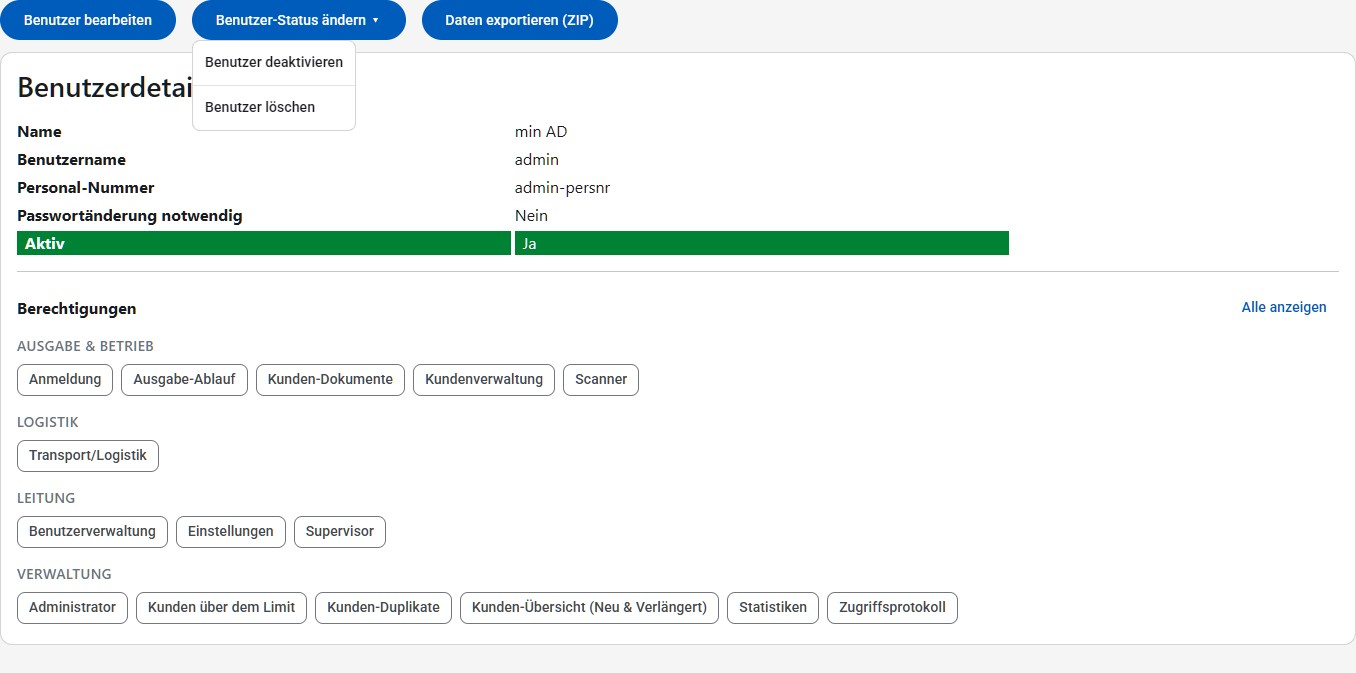
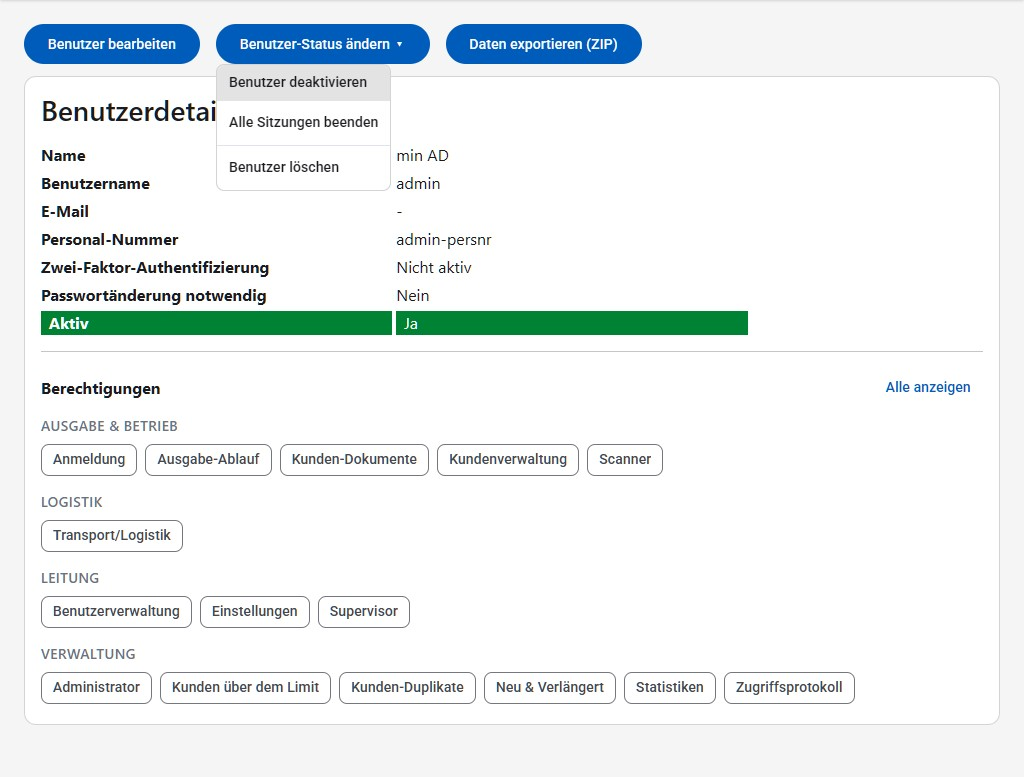
docs(userguide): describe "Sitzungen" and ending a user's sessions, with new screenshots
Also lets the e2e specs open a second session the way a second device would: a login ends
the session the browser already had.

Claude-Session: https://claude.ai/code/session_018iAkGF2DeqPHU6ACJCk35d

diff --git a/frontend/src/main/webapp/cypress/e2e/sessions.cy.ts b/frontend/src/main/webapp/cypress/e2e/sessions.cy.ts
@@ -1,8 +1,15 @@
 import {MAIN_CONTENT} from '../support/accessibility';
 
-// "Mein Konto" > "Sitzungen": the own logins, and ending them. Each `cy.loginDefault()` opens a session of its own
-// for `e2etest` - the ones opened before the last stand for other devices; the last one is this browser's.
+// "Mein Konto" > "Sitzungen": the own logins, and ending them. A login ends the session the browser already had, so
+// another device is played by logging in, putting that session's cookie aside and dropping it from the browser before
+// the next login - which is then this browser's.
 const SESSION_COOKIE = 'tafel-admin-session';
+
+/** Logs `e2etest` in on "another device" and yields that session's cookie; the browser itself holds none afterwards. */
+function loginOnAnotherDevice(): Cypress.Chainable<string> {
+  cy.loginDefault();
+  return cy.getCookie(SESSION_COOKIE).then(cookie => cy.clearCookie(SESSION_COOKIE).then(() => cookie!.value));
+}
 
 /** The key the API knows the session behind the browser's current cookie by. */
 function currentSessionKey(): Cypress.Chainable<string> {
@@ -28,7 +35,7 @@ describe('Sessions', () => {
   });
 
   it('lists the own sessions with this one marked, reachable from the account menu', () => {
-    cy.loginDefault();
+    loginOnAnotherDevice();
     cy.loginDefault();
     cy.visit('/konto/daten');
 
@@ -46,9 +53,10 @@ describe('Sessions', () => {
   });
 
   it('ends another session, which is logged out at once', () => {
-    cy.loginDefault();
-    cy.getCookie(SESSION_COOKIE).then(otherDevice => {
+    loginOnAnotherDevice().then(otherDevice => {
+      cy.setCookie(SESSION_COOKIE, otherDevice, {httpOnly: true});
       currentSessionKey().then(otherKey => {
+        cy.clearCookie(SESSION_COOKIE);
         cy.loginDefault();
         cy.visit('/konto/sitzungen');
 
@@ -59,14 +67,13 @@ describe('Sessions', () => {
         cy.contains('Sitzung wurde beendet.').should('be.visible');
         cy.get(`[testid="user-session"][data-session-id="${otherKey}"]`).should('not.exist');
         cy.byTestId('user-session-current-badge').should('be.visible');
-        expectSessionEnded(otherDevice!.value);
+        expectSessionEnded(otherDevice);
       });
     });
   });
 
   it('ends all other sessions and keeps this one', () => {
-    cy.loginDefault();
-    cy.getCookie(SESSION_COOKIE).then(otherDevice => {
+    loginOnAnotherDevice().then(otherDevice => {
       cy.loginDefault();
       cy.visit('/konto/sitzungen');
 
@@ -76,7 +83,7 @@ describe('Sessions', () => {
       cy.byTestId('user-session').should('have.length', 1);
       cy.byTestId('user-sessions-no-others').should('be.visible');
       cy.checkAccessibility(MAIN_CONTENT);
-      expectSessionEnded(otherDevice!.value);
+      expectSessionEnded(otherDevice);
 
       // and this browser is still logged in
       cy.reload();
@@ -86,8 +93,7 @@ describe('Sessions', () => {
   });
 
   it('logging out ends only this session', () => {
-    cy.loginDefault();
-    cy.getCookie(SESSION_COOKIE).then(otherDevice => {
+    loginOnAnotherDevice().then(otherDevice => {
       cy.loginDefault();
       cy.visit('/uebersicht');
 
@@ -95,7 +101,7 @@ describe('Sessions', () => {
       cy.byTestId('usermenu-logout').click();
       cy.url().should('include', '/login');
 
-      cy.setCookie(SESSION_COOKIE, otherDevice!.value, {httpOnly: true});
+      cy.setCookie(SESSION_COOKIE, otherDevice, {httpOnly: true});
       cy.request('/api/users/info').its('status').should('eq', 200);
     });
   });

diff --git a/frontend/src/main/webapp/cypress/e2e/user-detail.cy.ts b/frontend/src/main/webapp/cypress/e2e/user-detail.cy.ts
@@ -124,6 +124,8 @@ describe('User Detail', () => {
         // the user logs in somewhere - and the administrator logs back in here
         cy.login(userData.username, password);
         cy.getCookie('tafel-admin-session').then(usersSession => {
+          // a login ends the session the browser already had - so the user's is put aside first
+          cy.clearCookie('tafel-admin-session');
           cy.loginDefault();
           cy.visit('/benutzer/detail/' + response.body.id);
 
